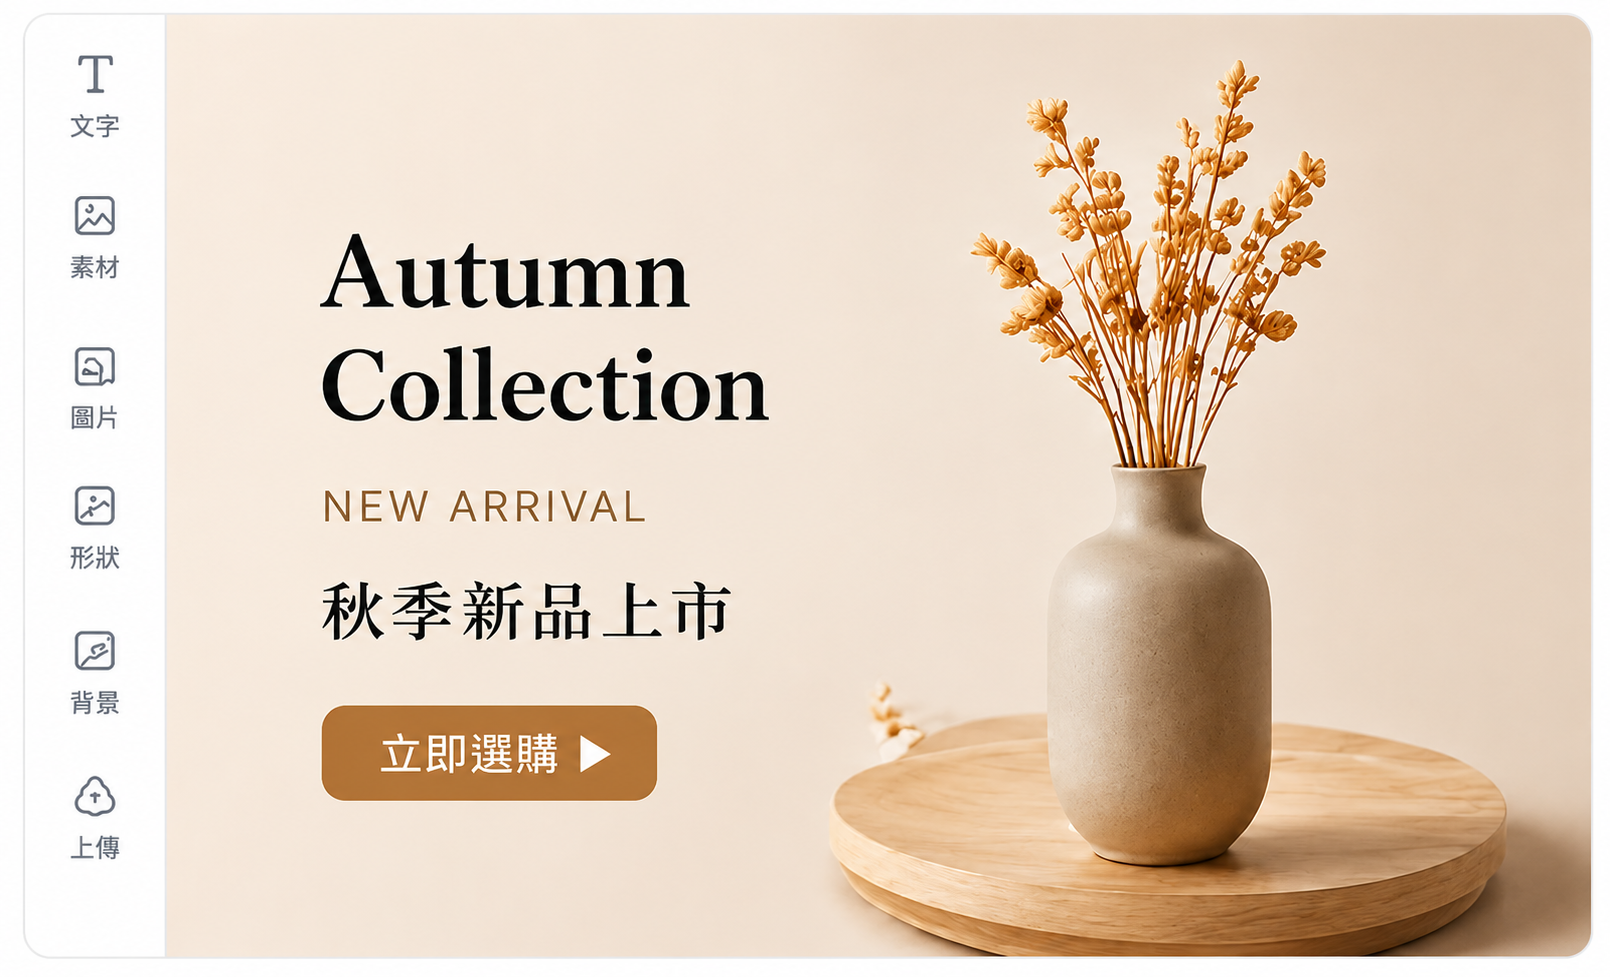
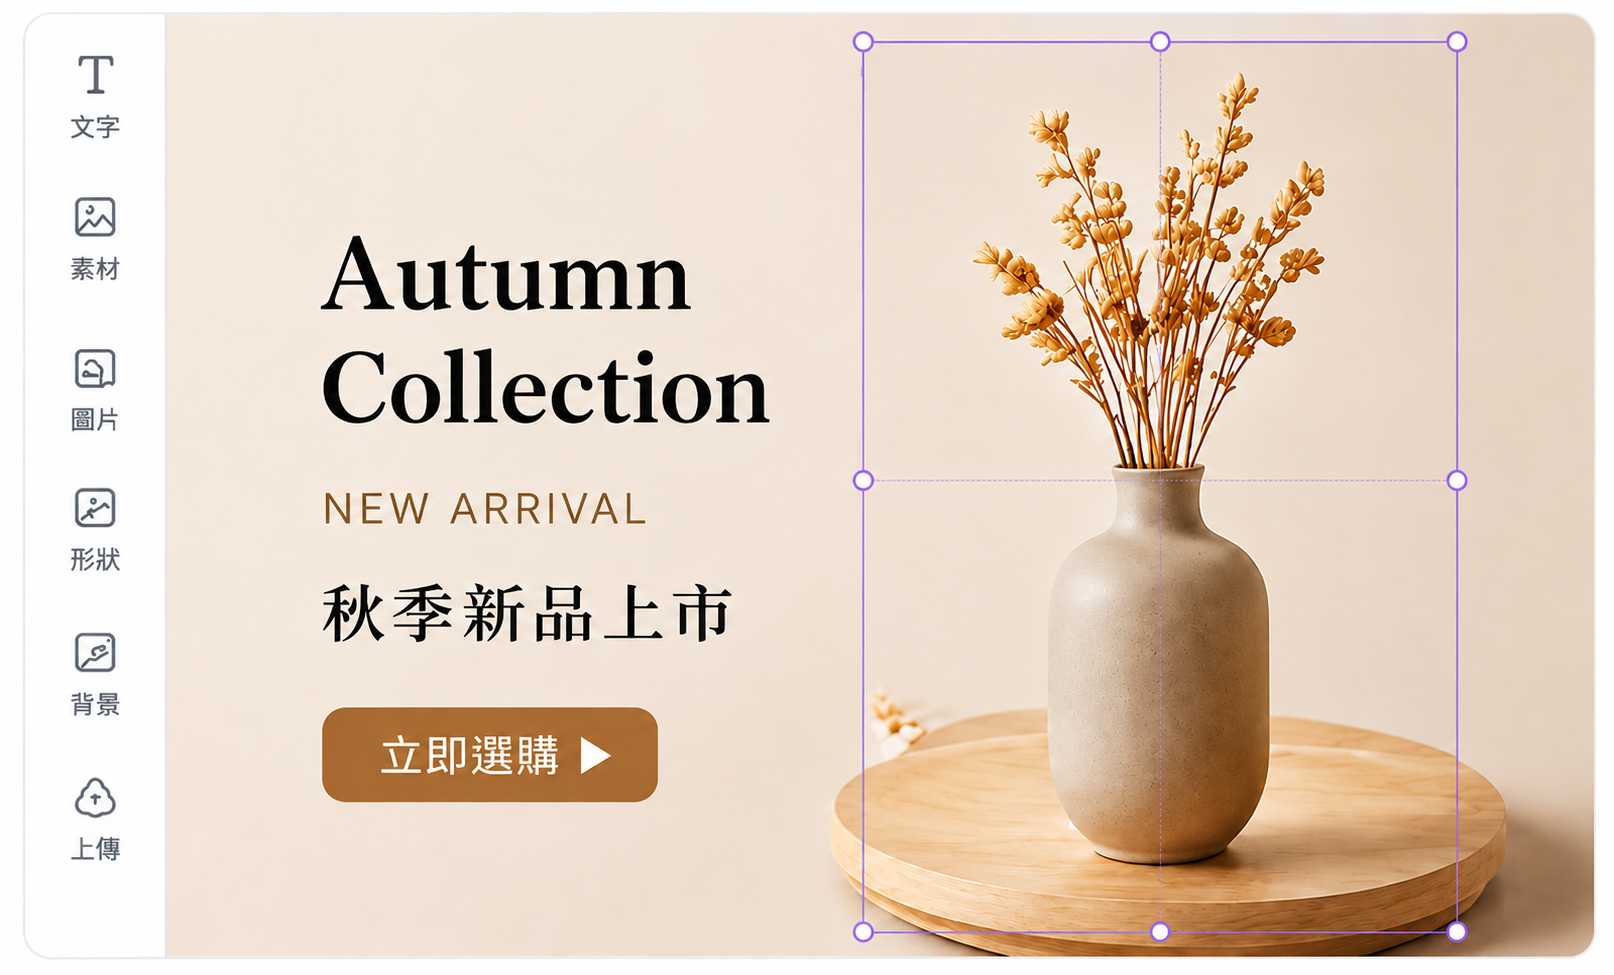
fix(home): 開始創作預覽圖依原圖比例(w-full h-auto，不壓縮不裁切)＋替換自由排版預覽圖

diff --git a/src/components/home/QuickStartCards.tsx b/src/components/home/QuickStartCards.tsx
@@ -1,5 +1,4 @@
 import Link from "next/link";
-import Image from "next/image";
 import { ShoppingBag, Image as ImageIcon, ChevronRight } from "lucide-react";
 import { FreeLayoutIcon } from "@/components/icons/FreeLayoutIcon";
 
@@ -29,9 +28,10 @@ export function QuickStartCards({ clientId }: { clientId: string }) {
                 <ChevronRight className="h-3.5 w-3.5" />
               </span>
             </div>
-            {/* 預覽圖：完整顯示不裁切 */}
-            <div className="relative h-[210px] w-full overflow-hidden rounded-xl bg-gray-50">
-              <Image src={c.preview} alt="" fill className="object-contain" sizes="(max-width: 768px) 100vw, 33vw" />
+            {/* 預覽圖：依原圖比例、滿版寬度、不裁切不變形 */}
+            <div className="w-full overflow-hidden rounded-xl bg-gray-50">
+              {/* eslint-disable-next-line @next/next/no-img-element */}
+              <img src={c.preview} alt="" loading="lazy" className="block h-auto w-full" />
             </div>
           </Link>
         ))}
